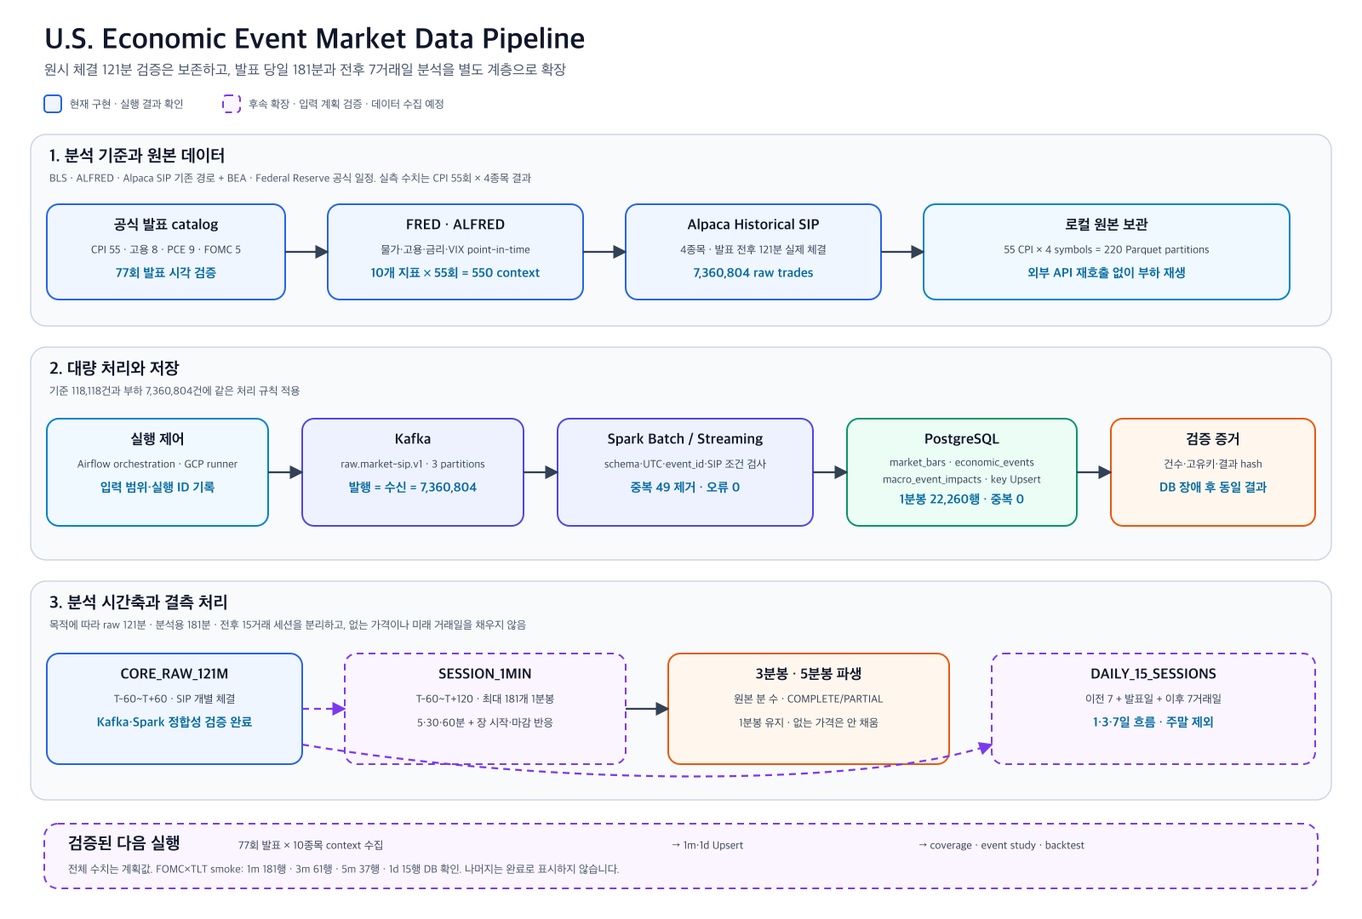
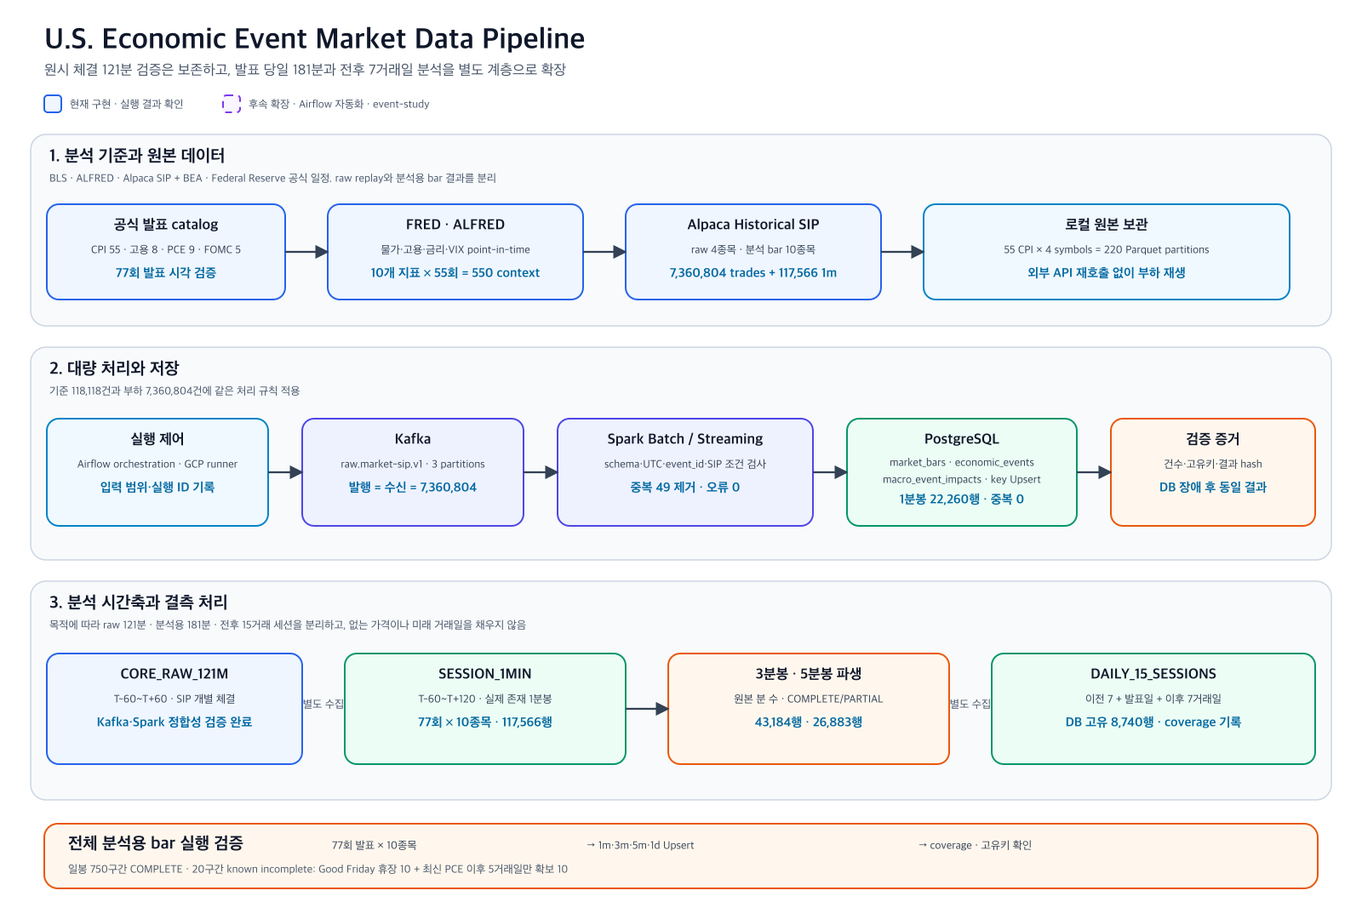
feat: complete multi-event bar collection

diff --git a/scripts/collect_market_event_context.py b/scripts/collect_market_event_context.py
@@ -6,6 +6,7 @@ import argparse
 import json
 import os
 from collections import Counter
+from datetime import UTC, datetime, timedelta
 from pathlib import Path
 
 from src.cpi_ingestion import DEFAULT_DATABASE_URL
@@ -19,6 +20,7 @@ from src.historical_bars import (
 from src.live_market_smoke import _read_env_file, load_credentials
 from src.market_event_context import (
     build_context_requests,
+    available_request_end,
     select_daily_context,
     select_session_context,
 )
@@ -111,13 +113,15 @@ def main() -> int:
     derived_partial_counts = Counter()
     total_pages = 0
     daily_coverage = []
+    provider_available_until = datetime.now(UTC) - timedelta(minutes=20)
 
     for request in requests:
+        request_end = available_request_end(request, provider_available_until)
         bars, pages = fetch_all_bars(
             client,
             symbols=request.symbols,
             start=request.start,
-            end=request.end,
+            end=request_end,
             feed=args.feed,
             timeframe=request.timeframe,
             max_pages=20,
@@ -183,6 +187,9 @@ def main() -> int:
         "upsert_attempt_counts": dict(sorted(upserted_counts.items())),
         "derived_bar_counts": dict(sorted(derived_counts.items())),
         "derived_partial_counts": dict(sorted(derived_partial_counts.items())),
+        "provider_available_until": provider_available_until.isoformat().replace(
+            "+00:00", "Z"
+        ),
         "daily_context_complete": sum(item["complete"] for item in daily_coverage),
         "daily_context_incomplete": sum(not item["complete"] for item in daily_coverage),
         "daily_coverage": daily_coverage,

diff --git a/tests/test_market_event_context.py b/tests/test_market_event_context.py
@@ -5,6 +5,7 @@ from decimal import Decimal
 from src.economic_event_schedule import load_event_catalog
 from src.historical_bars import HistoricalBar
 from src.market_event_context import (
+    available_request_end,
     build_context_requests,
     select_daily_context,
     select_session_context,
@@ -70,6 +71,15 @@ class MarketEventContextTest(unittest.TestCase):
         selected = select_session_context(bars, request)
 
         self.assertEqual([bar.bar_start for bar in selected], [request.start, request.end - timedelta(minutes=1)])
+
+    def test_clamps_future_request_end_to_provider_availability(self) -> None:
+        request = build_context_requests([self.release], ["TLT"])[1]
+        available_until = request.end - timedelta(days=5)
+
+        self.assertEqual(
+            available_request_end(request, available_until),
+            available_until,
+        )
 
     def test_marks_daily_context_incomplete_when_future_sessions_are_unavailable(self) -> None:
         event_start = datetime(2026, 7, 29, 4, tzinfo=UTC)

diff --git a/src/market_event_context.py b/src/market_event_context.py
@@ -135,3 +135,13 @@ def select_session_context(
     if request.layer != "SESSION_1MIN" or request.timeframe != "1Min":
         raise ValueError("session selection requires a SESSION_1MIN request")
     return [bar for bar in bars if request.start <= bar.bar_start < request.end]
+
+
+def available_request_end(
+    request: EventContextRequest,
+    provider_available_until: datetime,
+) -> datetime:
+    """Prevent historical requests from extending beyond provider availability."""
+    if provider_available_until.tzinfo is None:
+        raise ValueError("provider availability timestamp must include a timezone")
+    return min(request.end, provider_available_until)

diff --git a/docs/multi-event-expansion.md b/docs/multi-event-expansion.md
@@ -2,16 +2,16 @@
 
 ## 한눈에 보는 범위
 
-기존 실측 결과는 `CPI 55회 × SPY·QQQ·SMH·NVDA 4종목 = 220개 구간`입니다. 이번 변경은 이 결과를 지우거나 신규 결과처럼 포장하지 않고, 다음 수집 대상을 공식 발표 일정과 종목 역할로 명확히 정의합니다.
+기존 원시 체결 부하 실험은 `CPI 55회 × SPY·QQQ·SMH·NVDA 4종목 = 220개 구간`입니다. 여기에 분석용 provider bar 경로를 추가해 2026-09-03 기준으로 `77개 발표 × 10종목` 전체를 실제 수집·저장했습니다. 원시 체결 replay 결과와 provider bar 결과는 서로 다른 계층이므로 건수를 섞지 않습니다.
 
 | event type | 공식 기관 | manifest 범위 | 이벤트 수 | 시장 데이터 상태 |
 | --- | --- | --- | ---: | --- |
-| CPI | BLS | 2022-01-12~2026-08-12 | 55 | 4종목 수집·Kafka·Spark·DB 검증 완료 |
-| EMPLOYMENT | BLS | 2026-01-09~2026-08-07 | 8 | 공식 시각 검증, SIP 수집 예정 |
-| PCE | BEA | 2026-01-22~2026-08-26 | 9 | 공식 시각 검증, SIP 수집 예정 |
-| FOMC | Federal Reserve | 2026-01-28~2026-07-29 | 5 | 공식 시각 검증, SIP 수집 예정 |
+| CPI | BLS | 2022-01-12~2026-08-12 | 55 | 10종목 1분·3분·5분·일봉 저장 완료 |
+| EMPLOYMENT | BLS | 2026-01-09~2026-08-07 | 8 | 10종목 1분·3분·5분·일봉 저장 완료 |
+| PCE | BEA | 2026-01-22~2026-08-26 | 9 | 10종목 저장 완료, 최신 발표 이후 일봉은 5거래일까지 확보 |
+| FOMC | Federal Reserve | 2026-01-28~2026-07-29 | 5 | 10종목 1분·3분·5분·일봉 저장 완료 |
 
-따라서 현재 catalog는 77개 발표입니다. 종목 universe 10개를 모두 적용하면 770개 발표-종목 파티션입니다. `770`은 전체 다운로드 완료 수가 아니라 코드가 검증한 수집 계획 수입니다. 신규 수집기 smoke test로 `2026-07-29 FOMC × TLT` 1개 파티션은 실제 수집했습니다.
+따라서 현재 catalog는 77개 발표이며 종목 universe 10개를 적용한 770개 발표-종목 분석 구간을 실행했습니다. 실행 manifest와 발표 시각 범위로 PostgreSQL을 재조회한 결과는 1분봉 117,566행, 3분봉 43,184행, 5분봉 26,883행입니다. 일봉은 이벤트별 선택 건수를 합치면 11,520행이지만 인접한 이벤트가 같은 거래일을 공유하므로 PostgreSQL 고유 행은 8,740행입니다.
 
 ## 신규 실제 수집 결과
 
@@ -45,9 +45,9 @@ ETF를 포함한 이유는 개별 기업 뉴스의 영향을 줄이고 경제지
 | 계층 | 정확한 범위 | 입력 데이터 | 목적 | 현재 상태 |
 | --- | --- | --- | --- | --- |
 | `CORE_RAW_121M` | `T-60분`부터 `T+60분`에 시작하는 분까지 | SIP 개별 체결 | Kafka·Spark 전처리와 1분봉 정합성 검증 | CPI 55회 × 4종목 실행 완료 |
-| `SESSION_1MIN` | `T-60분`부터 `T+120분`에 시작하는 분까지, 최대 181개 | Alpaca SIP 1분봉 | 발표 직후 5·30·60분과 당일 후속 반응 분석 | FOMC×TLT 181행 smoke 완료, 전체 실행 전 |
-| `DERIVED_3M_5M` | 같은 181분의 1분봉을 3분·5분 단위로 집계 | 저장된 1분봉 | 희소 구간을 보기 쉬운 분석 해상도 제공 | FOMC×TLT 61행·37행 smoke 완료 |
-| `DAILY_15_SESSIONS` | 발표 거래일을 포함해 이전 7거래일 + 이후 7거래일 | Alpaca SIP 일봉 | 발표 전 움직임과 1·3·7거래일 후 흐름 분석 | FOMC×TLT 15행 smoke 완료, 전체 실행 전 |
+| `SESSION_1MIN` | `T-60분`부터 `T+120분`에 시작하는 분까지, 최대 181개 | Alpaca SIP 1분봉 | 발표 직후 5·30·60분과 당일 후속 반응 분석 | 전체 실행·DB 117,566행 확인 |
+| `DERIVED_3M_5M` | 같은 181분의 1분봉을 3분·5분 단위로 집계 | 저장된 1분봉 | 희소 구간을 보기 쉬운 분석 해상도 제공 | 전체 실행·DB 43,184행 / 26,883행 확인 |
+| `DAILY_15_SESSIONS` | 발표 거래일을 포함해 이전 7거래일 + 이후 7거래일 | Alpaca SIP 일봉 | 발표 전 움직임과 1·3·7거래일 후 흐름 분석 | 이벤트별 11,520행 선택, DB 고유 8,740행 확인 |
 
 `전후 7일`은 달력 날짜가 아니라 실제 15개 거래 세션입니다. 주말과 휴장일은 행을 만들지 않습니다. 최신 발표가 아직 7거래일이 지나지 않았다면 부족한 이후 세션 수를 manifest에 `incomplete`로 남기며 미래 값을 채우지 않습니다.
 
@@ -77,7 +77,12 @@ Kafka replay → Spark 검증·집계 → PostgreSQL
 
 현재 새 스크립트는 공식 일정·종목·시간 구간을 일반화하고 Parquet 수집까지 담당합니다. 기존 Kafka replay와 Spark 처리기는 `event_type`과 `symbol`을 이미 메시지/파티션 필드로 사용하므로 같은 원본을 후속 처리할 수 있습니다. 다만 770개 파티션 전체의 신규 Kafka·Spark 실행 결과는 아직 생성하지 않았습니다.
 
-분석용 두 구간은 `collect_market_event_context.py`가 같은 공식 일정과 종목 목록을 사용해 수집합니다. 77회 × 10종목 기준 계획상 최대치는 `SESSION_1MIN` 139,370행, 파생 3분봉 46,970행, 파생 5분봉 28,490행과 `DAILY_15_SESSIONS` 11,550행입니다. 이는 실제 저장 완료 건수가 아니라 결측이 하나도 없다고 가정한 상한입니다. 실제 smoke에서는 FOMC×TLT의 181개 1분봉, 61개 3분봉, 37개 5분봉과 15개 일봉을 PostgreSQL에서 확인했습니다.
+분석용 두 구간은 `collect_market_event_context.py`가 같은 공식 일정과 종목 목록을 사용해 수집합니다. 계획상 최대치는 `SESSION_1MIN` 139,370행, 파생 3분봉 46,970행, 파생 5분봉 28,490행과 이벤트별 일봉 11,550행입니다. 실제 실행에서는 거래가 없던 분을 만들지 않아 각각 117,566행, 43,184행, 26,883행이 저장됐습니다. 3분봉은 `COMPLETE` 35,255행·`PARTIAL` 7,929행, 5분봉은 `COMPLETE` 20,205행·`PARTIAL` 6,678행입니다.
+
+일봉 coverage는 770개 발표-종목 중 750개가 `이전 7 + 발표일 1 + 이후 7`을 충족했습니다. 나머지 20개는 수집 실패가 아닙니다.
+
+- 2026-04-03 고용보고서 발표일은 Good Friday 휴장이라 10종목 모두 발표일 행이 없고 `7 + 0 + 7`입니다.
+- 2026-08-26 PCE는 2026-09-03 실행 시점에 이후 거래일이 5일만 지나 10종목 모두 `7 + 1 + 5`입니다. 미래 2거래일은 생성하지 않았습니다.
 
 ## 확인 및 단계 실행
 
@@ -101,7 +106,7 @@ Kafka replay → Spark 검증·집계 → PostgreSQL
 .venv/bin/python scripts/collect_market_event_context.py
 ```
 
-대량 수집은 `FOMC → 고용 → PCE → 기존 CPI의 신규 6종목` 순으로 나눕니다. 중간 실패 시 완료 manifest와 Parquet checksum이 일치하는 파티션은 건너뛰고 실패한 파티션부터 이어서 실행합니다.
+원시 체결 대량 수집은 `FOMC → 고용 → PCE → 기존 CPI의 신규 6종목` 순으로 나눕니다. 분석용 bar 전체 실행 결과는 `data/archive/market-event-context-manifest.json`에 남으며, 이 원본 manifest는 Git에서 제외하고 비밀정보가 없는 요약만 evidence 문서에 공개합니다.
 
 ## 완료 판정
 

diff --git a/README.md b/README.md
@@ -23,7 +23,7 @@
 2. [5차시 부하·장애·복구 과제 문서](docs/load-recovery-assignment.md)에서 기준·부하·장애·복구 결과를 읽습니다.
 3. [실행 증거 설명](docs/evidence/load-recovery/README.md)에서 캡처 3장과 원본 JSON 확인 순서를 봅니다.
 
-5차시까지 Kafka·Spark·DB 실행 검증이 끝난 범위는 **CPI 공식 발표 55회 × 4종목**입니다. 이후 확장을 위해 공식 발표가 완료된 2026년 고용보고서 8회·PCE 9회·FOMC 5회를 발표 manifest에 추가했고, 시장 대표군도 10종목으로 확장했습니다. 전체 `77개 발표 × 10종목 = 770개 수집 구간`은 검증된 실행 계획입니다. 이 중 신규 수집기 확인을 위해 `2026-07-29 FOMC × TLT` 한 구간의 실제 SIP 체결 29,139건을 Parquet으로 수집했으며, 나머지 신규 구간은 아직 수집 완료로 표시하지 않습니다.
+원시 체결을 Kafka·Spark로 재생한 부하 검증 범위는 **CPI 공식 발표 55회 × 4종목**입니다. 분석용 provider bar는 별도 경로로 범위를 넓혀 `CPI 55 + 고용 8 + PCE 9 + FOMC 5 = 77개 발표`와 10종목, 총 770개 발표-종목 구간을 실제 수집·저장했습니다. PostgreSQL에서 해당 발표 시각 범위를 재조회해 1분봉 117,566행, 3분봉 43,184행, 5분봉 26,883행을 확인했습니다.
 
 ## 프로젝트 목표
 
@@ -37,11 +37,11 @@
 
 ## 현재 분석 범위와 확장 범위
 
-- CPI 발표: 최근 실제 발표 12회
-- 경제지표: `CPIAUCSL`, `CPILFESL`의 ALFRED 당시 공개본(vintage)
-- 시장 데이터: Alpaca Historical SIP `1Min` bar
-- 종목: `SPY`, `QQQ`, `SMH`, `NVDA`
-- 분석 구간: 발표 전 60분, 발표 후 5·30·60분
+- 공식 발표: CPI 55회, 고용보고서 8회, PCE 9회, FOMC 5회
+- 경제지표: FRED·ALFRED 10개 series의 당시 이용 가능 값
+- 시장 데이터: Alpaca Historical SIP `1Min`·`1Day` bar와 1분봉에서 파생한 `3m`·`5m`
+- 종목: `SPY`, `QQQ`, `IWM`, `TLT`, `XLF`, `SMH`, `GLD`, `NVDA`, `AAPL`, `JPM`
+- 분석 구간: 발표 60분 전~120분 후, 발표일 전후 각 7거래일
 - 저장소: PostgreSQL
 
 위 12회는 기존 CPI 영향 분석 테이블의 검증 범위입니다. 부하·복구 실험은 같은 구조를 2022년부터 2026년 8월까지 CPI 발표 55회로 확장했습니다. 두 범위를 섞어 같은 결과처럼 해석하지 않습니다.
@@ -180,7 +180,7 @@ Historical SIP 1분봉 5,320행은 **여러 발표일과 4개 종목을 합한, 
 
 GCP PostgreSQL을 중지한 실행은 `failed`로 기록됐고 저장 행은 0건이었습니다. DB 복구 후 같은 입력을 Upsert해 전체 22,260행과 고유키 중복 0건이 유지됐습니다. 상세 수치와 캡처는 [5차시 부하·장애·복구 과제 문서](docs/load-recovery-assignment.md)에 있습니다.
 
-각 발표 구간은 121개의 예상 1분 구간이지만, 한 분의 모든 체결이 Odd Lot이면 OHLC·VWAP 가격을 만들 수 없어 완성된 `market_bars` 행을 생성하지 않습니다. 원시 체결은 Parquet과 Kafka 처리 건수에 남아 있습니다. 1분봉은 검증용 정본으로 유지하고, 희소한 장전 분석에는 coverage를 포함한 5분봉을 후속 파생 결과로 추가할 계획입니다.
+각 원시 replay 구간은 121개의 예상 1분 구간이지만, 한 분의 모든 체결이 Odd Lot이면 OHLC·VWAP 가격을 만들 수 없어 완성된 `market_bars` 행을 생성하지 않습니다. 원시 체결은 Parquet과 Kafka 처리 건수에 남아 있습니다. 분석용 1분봉은 그대로 유지하면서 3분봉과 5분봉을 실제 생성했으며, 없는 분을 채우지 않고 각 파생봉에 `COMPLETE` 또는 `PARTIAL` coverage를 저장했습니다.
 
 현재 평균 수익률은 선택한 12개 발표 구간의 관측값입니다. 비발표일 비교군과 통계 검정이 아직 없으므로 CPI의 인과 효과나 미래 수익률로 해석하지 않습니다.
 
@@ -236,7 +236,7 @@ API를 호출하기 전에 공식 발표 수, 종목 수와 예상 파티션을 
 .venv/bin/python scripts/collect_market_event_archive.py --dry-run
 ```
 
-현재 결과는 `CPI 55 + 고용 8 + PCE 9 + FOMC 5 = 77개 발표`, `10종목`, `770개 발표-종목 구간`입니다. Kafka·Spark 검증용 원시 체결은 발표 전후 60분의 121개 예상 분을 유지합니다. 분석 범위는 별도로 발표 60분 전부터 120분 후까지의 1분봉, 이 1분봉에서 파생한 coverage 포함 3분봉·5분봉, 전후 7거래일의 일봉으로 확장합니다. 실제 수집은 `--dry-run`을 제거하면 되며, 완료된 원시 파티션은 Parquet checksum manifest가 일치하면 다시 API를 호출하지 않습니다.
+현재 결과는 `CPI 55 + 고용 8 + PCE 9 + FOMC 5 = 77개 발표`, `10종목`, `770개 발표-종목 구간`입니다. Kafka·Spark 검증용 원시 체결은 발표 전후 60분의 121개 예상 분을 유지합니다. 분석용 SIP bar 전체 실행에서는 발표 60분 전부터 120분 후까지 1분봉 117,566행, 여기서 파생한 3분봉 43,184행과 5분봉 26,883행을 PostgreSQL에서 확인했습니다. 전후 7거래일 일봉은 이벤트별 11,520행을 선택했고, 겹치는 거래일을 고유키로 합친 DB 행은 8,740개입니다.
 
 신규 경로 smoke test로 `2026-07-29 FOMC × TLT`를 실행해 실제 SIP 체결 29,139건을 3페이지로 수집했고 checksum을 검증했습니다. 이는 Alpaca → Parquet 수집 단계의 결과이며 아직 해당 구간을 Kafka·Spark·PostgreSQL까지 처리했다는 뜻은 아닙니다. 공개 가능한 실행 요약은 [신규 FOMC·TLT 수집 증거](docs/evidence/multi-event-expansion/README.md)에 있습니다.
 
@@ -276,8 +276,8 @@ docker compose exec -T postgres \
 
 ## 다음 단계
 
-1. 신규 고용·PCE·FOMC 22개 발표를 10종목으로 단계 수집하고 partition manifest 확정
-2. 일반화된 event manifest를 Airflow Dynamic Task Mapping 입력으로 연결
+1. 77개 발표 × 10종목 분석용 bar 수집을 Airflow Dynamic Task Mapping 입력으로 연결
+2. 휴장일과 아직 도래하지 않은 이후 거래일 coverage를 자동 재수집·알림 대상으로 연결
 3. 장전 08:30 발표와 정규장 14:00 FOMC를 세션별로 구분해 분석
 4. 각 발표의 point-in-time actual을 ALFRED/BLS/BEA와 연결
 5. Airflow schedule과 누락 구간 자동 backfill·알림 추가, 이후 검증 가능한 전망치 기반 surprise 분석

diff --git a/docs/evidence/multi-event-expansion/README.md b/docs/evidence/multi-event-expansion/README.md
@@ -35,8 +35,25 @@ Parquet SHA-256: 77059c190cf58c9a90a2e52fb6abd3c26e6bf1979d240b680c5a21f1824bc1f
 
 부분 봉을 버리거나 가격을 채우지 않았습니다. 각 행의 `source_bar_count`, `expected_bar_count`, `coverage_status`로 실제 포함된 1분봉 수를 확인할 수 있습니다.
 
-이는 한 이벤트·한 종목의 smoke 결과입니다. 77회 × 10종목 전체가 저장됐다는 뜻은 아닙니다.
+위 표는 구현 직후 확인한 한 이벤트·한 종목 smoke 결과입니다. 이후 2026-09-03에 77회 × 10종목 전체 분석용 bar 수집을 완료했습니다.
+
+## 전체 분석 구간 실행 결과
+
+| 항목 | 실제 결과 | 확인 의미 |
+| --- | ---: | --- |
+| 공식 발표 | 77회 | CPI 55, 고용 8, PCE 9, FOMC 5 |
+| 종목 | 10개 | 총 770개 발표-종목 구간 |
+| SIP 1분봉 | 117,566행 | 발표 T-60분~T+120분 범위의 실제 존재 봉 |
+| 파생 3분봉 | 43,184행 | COMPLETE 35,255, PARTIAL 7,929 |
+| 파생 5분봉 | 26,883행 | COMPLETE 20,205, PARTIAL 6,678 |
+| 일봉 선택 | 11,520행 | 각 이벤트 관점의 전후 거래일 합계 |
+| 일봉 DB 고유 행 | 8,740행 | 이벤트 사이에 겹치는 날짜를 고유키 Upsert한 결과 |
+
+manifest의 1분·3분·5분 건수와 발표별 시간 범위로 재조회한 PostgreSQL 건수가 일치했습니다. 3분봉·5분봉의 `PARTIAL`은 없는 1분 가격을 채우지 않았다는 뜻이며, 저장 실패가 아닙니다.
+
+일봉 coverage 770건 중 750건은 완전했고 20건은 사유가 확인된 미완전 구간입니다. 2026-04-03 고용보고서는 Good Friday 휴장이라 10종목 모두 발표일 일봉이 없었습니다. 2026-08-26 PCE는 실행 시점에 이후 거래일이 5일만 지나 10종목 모두 미래 2거래일이 아직 없었습니다.
 
 - 기계 판독 요약: [`fomc-tlt-2026-07-29.json`](fomc-tlt-2026-07-29.json)
 - 분석 구간 저장 요약: [`fomc-tlt-context.json`](fomc-tlt-context.json)
+- 전체 실행 요약: [`full-context-2026-09-03.json`](full-context-2026-09-03.json)
 - 전체 확장 설명: [`../../multi-event-expansion.md`](../../multi-event-expansion.md)

diff --git a/docs/load-recovery-assignment.md b/docs/load-recovery-assignment.md
@@ -313,11 +313,11 @@ Parquet 원본과 전체 로그는 Git에서 제외합니다. 공개 증거는 [
 | 계층 | 범위 | 데이터 양(77회 × 10종목 계획) | 상태 |
 | --- | --- | ---: | --- |
 | Kafka·Spark raw 검증 | 발표 전후 60분, 최대 121분 | 원시 체결 수는 실제 수집 후 확정 | CPI 55회 × 4종목 완료 |
-| 발표 당일 분석 | 발표 60분 전~120분 후, 최대 181개 1분봉 | 최대 139,370행 | FOMC×TLT 181행 smoke 완료, 전체 수집 전 |
-| 분석용 파생봉 | 같은 181분을 3분·5분 단위로 집계 | 최대 46,970 / 28,490행 | FOMC×TLT 61 / 37행 smoke 완료 |
-| 중기 분석 | 이전 7거래일+발표일+이후 7거래일 | 최대 11,550 일봉 | FOMC×TLT 15행 smoke 완료, 전체 수집 전 |
+| 발표 당일 분석 | 발표 60분 전~120분 후, 최대 181개 1분봉 | 실제 117,566행 | 77회 × 10종목 DB 확인 완료 |
+| 분석용 파생봉 | 같은 181분을 3분·5분 단위로 집계 | 실제 43,184 / 26,883행 | DB 확인 완료, coverage 저장 |
+| 중기 분석 | 이전 7거래일+발표일+이후 7거래일 | 선택 11,520행, DB 고유 8,740행 | 750 complete / 20 known incomplete |
 
-따라서 6차시 제출에서 139,370행이나 11,550행을 실제 저장 건수라고 주장하지 않습니다. 수집 후에는 이벤트·종목별로 `before=7`, `event=1`, `after=7`인지 기록하고, 최신 발표처럼 이후 거래일이 아직 오지 않은 경우 `incomplete`로 구분합니다.
+139,370행과 11,550행은 결측이 전혀 없다고 가정한 상한이며 실제 결과가 아닙니다. 전체 실행에서 일봉 20개 구간이 미완전했습니다. Good Friday 휴장인 2026-04-03 고용보고서 10종목은 `7/0/7`, 아직 이후 거래일이 5일만 지난 2026-08-26 PCE 10종목은 `7/1/5`로 기록했습니다.
 
 - Kafka key를 `symbol + release_date`로 바꾼 실험과 파티션 분포 비교
 - `pd-standard`와 SSD에서 Spark spill·처리 시간 비교

diff --git a/docs/diagrams/README.md b/docs/diagrams/README.md
@@ -4,7 +4,7 @@
 
 | 파일 | 용도 |
 | --- | --- |
-| `pipeline-architecture.svg` | 전체 프로젝트 정본. CPI raw 121분 실측 경로와 77회·10종목의 181분/전후 7거래일 확장 계획, 결측 판정을 구분 |
+| `pipeline-architecture.svg` | 전체 프로젝트 정본. CPI raw 121분 실측 경로와 77회·10종목의 181분/전후 7거래일 실제 저장 결과, 결측 판정을 구분 |
 | `pipeline-architecture.png` | 루트 README에서 사용하는 전체 프로젝트 렌더 결과 |
 | `cpi-sip-kafka-spark-assignment.svg` | 한 CPI 발표일의 Kafka·Spark 과제 실행 정본 |
 | `cpi-sip-kafka-spark-assignment.png` | 과제 문서와 발표에서 사용하는 실행 결과 렌더 |
@@ -21,8 +21,8 @@ Data Source
 ```
 
 - 파란색·초록색·주황색 실선: 현재 구현하고 실행 결과를 검증한 경로
-- 보라색 점선: 공식 입력과 수집 코드는 검증했지만 아직 전체 저장 결과로 주장하지 않는 신규 이벤트·10종목·181분/15거래 세션·backtest 확장
-- 주황색: FOMC×TLT smoke에서 실제 확인한 3분봉·5분봉 파생과 검증 증거
+- 보라색 점선: 아직 실행하지 않은 event-study/backtest·Airflow 자동화 확장
+- 주황색: 실제 실행 결과와 건수·coverage 검증 증거
 - 루트 README에는 전체 프로젝트 그림만 배치하고, 과제 실행 그림은 과제 문서에서만 사용한다.
 
 PNG를 수정한 뒤에는 SVG 정본과 내용이 같은지, 글자가 잘리거나 lane 경계를 침범하지 않는지 확인한다.

diff --git a/docs/architecture.md b/docs/architecture.md
@@ -1,6 +1,6 @@
 # Macro Impact & Automated Trading Data Foundation — MVP Architecture
 
-상태: CPI 55회 × 4종목 실행 검증 완료, 고용·PCE·FOMC 22회 × 10종목 수집 계획 검증 완료
+상태: CPI 원시 replay 55회 × 4종목 검증 완료, 분석용 SIP bar 77회 × 10종목 수집·DB 저장 완료
 
 기준일: 2026-08-13
 
@@ -190,7 +190,7 @@ DAG의 logical date와 `series_id + observation_date + realtime_start` unique ke
 
 ### 7.2 Macro release impact
 
-이벤트 유형은 CPI, Employment Situation, PCE, FOMC다. CPI는 2022-01-12부터 2026-08-12까지 55회를 실행 검증했고, 나머지는 공식 발표가 완료된 2026년 22회를 우선 수집 범위로 고정했다. 시장 universe는 SPY·QQQ·IWM·TLT·XLF·SMH·GLD·NVDA·AAPL·JPM 10종목이며, 신규 범위는 SIP 원시 수집 후에만 실행 완료로 전환한다.
+이벤트 유형은 CPI, Employment Situation, PCE, FOMC다. CPI는 2022-01-12부터 2026-08-12까지 55회, 나머지는 공식 발표가 완료된 2026년 22회를 범위로 고정했다. 시장 universe는 SPY·QQQ·IWM·TLT·XLF·SMH·GLD·NVDA·AAPL·JPM 10종목이다. 2026-09-03 기준 분석용 SIP bar 770개 발표-종목 구간을 실행해 1분봉 117,566행, 3분봉 43,184행, 5분봉 26,883행을 PostgreSQL에서 확인했다. 원시 체결 Kafka·Spark 검증 범위는 별도로 CPI 55회 × 4종목이다.
 
 ```text
 economic event with official released_at + as-known vintage
